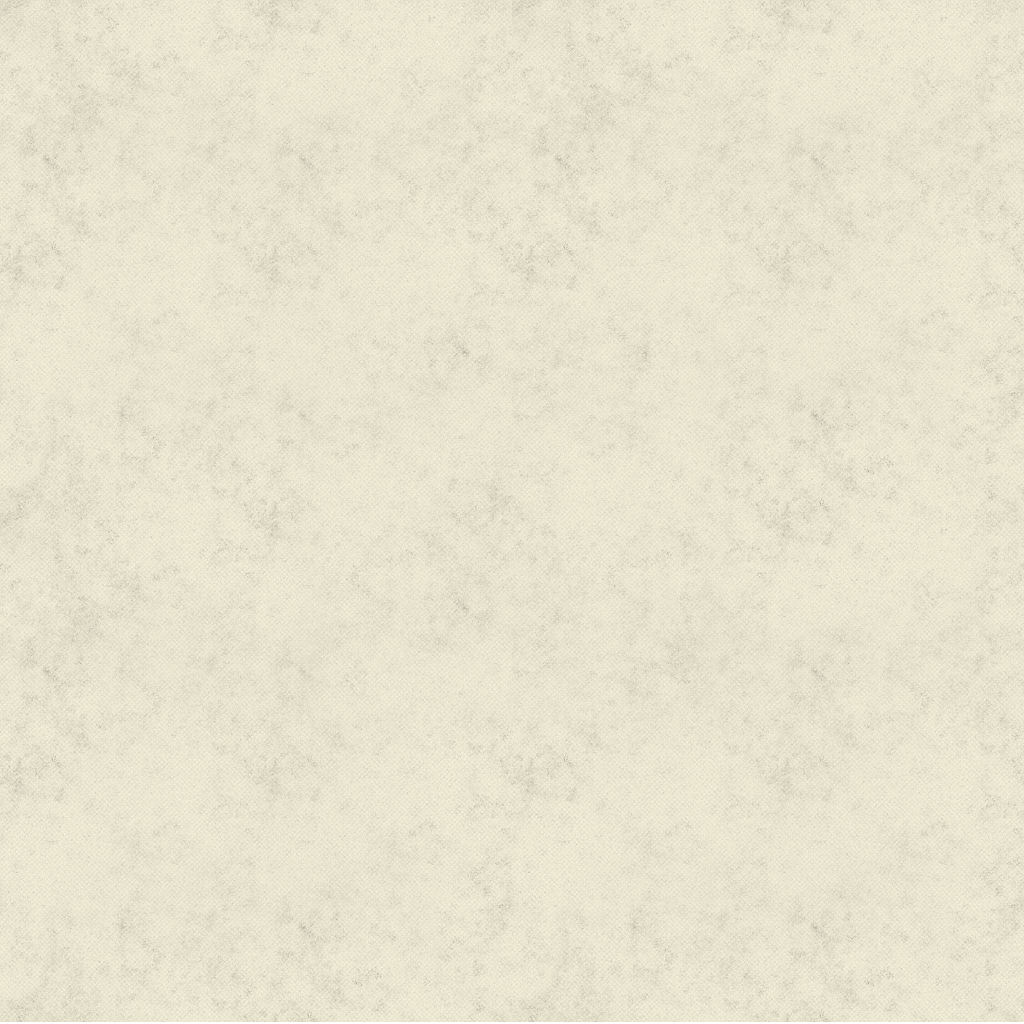
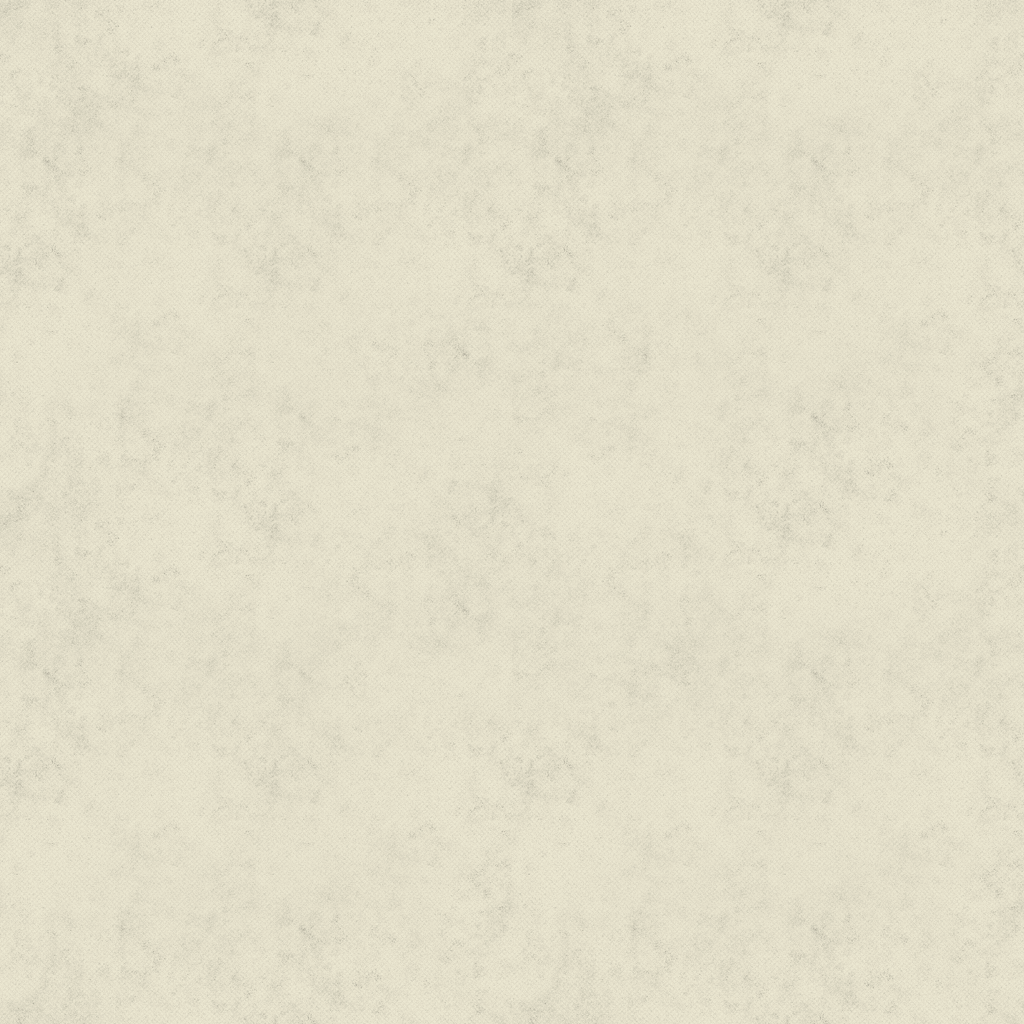
further layout changes and text colour changes. removed white line from bottom of main_bg.png. The background is now seamless

diff --git a/site/assets/css/main.css b/site/assets/css/main.css
@@ -8076,7 +8076,14 @@ p.body_text {
   font-family: "Raleway", sans-serif;
   font-weight: normal;
   font-size: 18px;
-  color: #42110a;
+  color: #5b4937;
+}
+/* line 13, ../scss/_body_text.scss */
+p.filmmakers__additional {
+  font-size: 27px;
+  color: #5b4937;
+  font-family: "Source Code Pro", "Lucida Grande", sans-serif;
+  font-weight: 200;
 }
 
 /* line 1, ../scss/_nav.scss */
@@ -8181,7 +8188,7 @@ p.body_text {
   border-bottom: 3px solid #f0e5b7;
 }
 
-/* line 12, ../scss/_headings.scss */
+/* line 9, ../scss/_headings.scss */
 h1,
 h2,
 h3,
@@ -8191,53 +8198,70 @@ h5 {
   font-weight: 200;
 }
 
-/* line 18, ../scss/_headings.scss */
+/* line 15, ../scss/_headings.scss */
 h1 {
   font-size: 54px;
   color: #42110a;
 }
 
-/* line 24, ../scss/_headings.scss */
+/* line 21, ../scss/_headings.scss */
 h2 {
   font-size: 45px;
   color: #42110a;
 }
+/* line 24, ../scss/_headings.scss */
+h2.filmmakers__heading {
+  color: #5b4937;
+}
 
-/* line 29, ../scss/_headings.scss */
+/* line 30, ../scss/_headings.scss */
 h3 {
   font-size: 36px;
   color: #42110a;
 }
-/* line 34, ../scss/_headings.scss */
+/* line 35, ../scss/_headings.scss */
 h3.nav {
   color: #ffde38;
 }
-
 /* line 39, ../scss/_headings.scss */
+h3.filmmakers__heading {
+  color: #5b4937;
+}
+
+/* line 44, ../scss/_headings.scss */
 h4 {
   font-size: 27px;
   color: #42110a;
 }
+/* line 48, ../scss/_headings.scss */
+h4.filmmakers__heading {
+  color: #90a4a4;
+}
+/* line 52, ../scss/_headings.scss */
+h4.filmmakers__additional {
+  padding-top: 8px;
+  padding-bottom: 8px;
+}
 
-/* line 43, ../scss/_headings.scss */
+/* line 58, ../scss/_headings.scss */
 .countdown {
   font-family: "Source Code Pro", "Lucida Grande", sans-serif;
   color: #ffde38;
   text-align: center;
 }
-/* line 48, ../scss/_headings.scss */
+/* line 63, ../scss/_headings.scss */
 .countdown.countdown__container {
   border-left: 3px solid #f0e5b7;
   height: 132px;
 }
-/* line 53, ../scss/_headings.scss */
+/* line 68, ../scss/_headings.scss */
 .countdown.countdown__title {
   font-size: 45px;
   font-weight: 300;
   margin-top: 16px;
   margin-bottom: 16px;
 }
-/* line 60, ../scss/_headings.scss */
+/* line 75, ../scss/_headings.scss */
 .countdown.countdown__counter {
   font-size: 36px;
   font-weight: 300;
@@ -8323,25 +8347,41 @@ video::-webkit-media-controls-current-time-display {
 }
 
 /* line 9, ../scss/_filmmakers.scss */
+.filmmakers__article__container:nth-child(2) {
+  margin-top: 24px;
+}
+
+/* line 13, ../scss/_filmmakers.scss */
 .filmmakers__container__section {
   margin-top: 48px;
   margin-bottom: 48px;
 }
 
-/* line 17, ../scss/_filmmakers.scss */
+/* line 18, ../scss/_filmmakers.scss */
+.filmmakers__container__section:last-child {
+  margin-top: 48px;
+  margin-bottom: 72px;
+}
+
+/* line 23, ../scss/_filmmakers.scss */
 .filmmakers__container {
   position: relative;
   z-index: 10;
   margin-top: -120px;
 }
 
-/* line 23, ../scss/_filmmakers.scss */
+/* line 29, ../scss/_filmmakers.scss */
 .filmmakers__title {
   text-align: center;
   padding-top: 20px;
 }
 
-/* line 28, ../scss/_filmmakers.scss */
+/* line 34, ../scss/_filmmakers.scss */
 .filmmakers__additional {
   text-align: center;
+}
+
+/* line 38, ../scss/_filmmakers.scss */
+.filmmakers__additional--title {
+  color: #90a4a4;
 }

diff --git a/site/assets/scss/_filmmakers.scss b/site/assets/scss/_filmmakers.scss
@@ -6,13 +6,19 @@
 	margin-top: $gridheight * 12;
 }
 
+.filmmakers__article__container:nth-child(2) {
+	margin-top: 24px;
+}
+
 .filmmakers__container__section {
 	margin-top: $gridheight * 12;
 	margin-bottom: $gridheight * 12;
 }
-// .filmmakers__article__container:first-child {
-// 	margin-top: 0px;
-// }
+
+.filmmakers__container__section:last-child {
+	margin-top: $gridheight * 12;
+	margin-bottom: $gridheight * 18;
+}
 
 .filmmakers__container{
 	position: relative;
@@ -28,3 +34,9 @@
 .filmmakers__additional {
 	text-align: center;
 }
+
+.filmmakers__additional--title {
+	color: $blue;
+			
+}
+

diff --git a/site/assets/scss/_headings.scss b/site/assets/scss/_headings.scss
@@ -1,9 +1,6 @@
 // Headings
 
-@mixin fontSizeColour($sz, $fontColour){
-	font-size: $sz;
-	color: $fontColour;
-}
+
 
 h1,
 h2,
@@ -24,6 +21,10 @@ h1 {
 h2 {
 	@include fontSizeColour(45px, $choc_brown);
 
+	&.filmmakers__heading {
+		color: $brown;
+	}
+
 }
 
 h3 {
@@ -34,10 +35,24 @@ h3 {
 	&.nav {
 		color: $yellow;
 	}
+
+	&.filmmakers__heading {
+		color: $brown;
+	}
 }
 
 h4 {
 	@include fontSizeColour(27px, $choc_brown);
+
+	
+	&.filmmakers__heading{
+		color: $blue;
+	}
+
+	&.filmmakers__additional{
+		padding-top: $gridheight * 2;
+		padding-bottom: $gridheight * 2;
+	}
 }
 
 .countdown{

diff --git a/site/assets/scss/_body_text.scss b/site/assets/scss/_body_text.scss
@@ -7,6 +7,14 @@ p {
 		font-family: $body_font_family;
 		font-weight: $body_font_weight;
 		font-size: $body_font_size;
-		color: $choc_brown;
+		color: $brown;
+	}
+
+	&.filmmakers__additional {
+
+		font-size:27px;
+		color: $brown;
+		font-family: $header_font_family;
+		font-weight: $header_font_weight;
 	}
 }

diff --git a/site/assets/scss/_mixins.scss b/site/assets/scss/_mixins.scss
@@ -12,3 +12,9 @@
 	@if $right {border-right: $width solid  $borderColor};
 
 }
+
+// Adds the following properties to element
+@mixin fontSizeColour($sz, $fontColour){
+	font-size: $sz;
+	color: $fontColour;
+}

diff --git a/site/includes/content-filmmakers.php b/site/includes/content-filmmakers.php
@@ -13,8 +13,8 @@ function displayBio ($bioData) {
 		echo 	'<article class="col-1-12">';
 		echo 		'<img src="'.$bio['picLink'].'"alt="Profile Pic" class="article__img col-md-3 col-md-offset-1">';
 		echo 		'<div class="col-md-8">';
-		echo 			'<h2 class="filmmakers_bio">'.$bio['name'].'</h2>';
-		echo 			'<h3>'.$cast['title'].'</h3>';
+		echo 			'<h3 class="filmmakers_bio filmmakers__heading">'.$bio['name'].'</h3>';
+		echo 			'<h4 class="filmmakers__heading">'.$bio['title'].'</h4>';
 		echo 			'<p class="body_text">'.$bio['details'].'</p>';
 		echo 		'</div>';
 		echo 	'</article>';
@@ -29,32 +29,33 @@ function displayBio ($bioData) {
 			<h1 class="filmmakers__title col-md-12"> The Filmmakers </h1>
 		</div>
 
-		<section class= "filmmakers__container__section">
-			<div class="row">
-				<h2 class ='col-md-12'> Cast </h2>
-			
+		<section class= "filmmakers__container__section row">
+			<div class="row">				
+				<h2 class ='filmmakers__heading col-md-12'> Cast </h2>
+			</div>
 			<?php 	$castBio = displayBio($bioDataCast);
 				 	echo $castBio; ?>
-			</div>
 		</section>
 
-		</section "filmmakers__container__section">
-			<div class="row">
-				<h2 class ='col-md-12'> Crew </h2>
+		<section class="filmmakers__container__section row">
+			
+			<div class="row">				
+				<h2 class ='filmmakers__heading col-md-12'> Crew </h2>
+			</div>
 			
 			<?php 	$castBio = displayBio($bioDataCrew);
 				 	echo $castBio; ?>
 
-		 	</div>
+		 	
 	 	</section>
 
-		<section class="filmmakers__container__section">
-			<div class="row">
-				<div class="filmmakers__additional">
-					<h2>Additional Crew</h2>
-					<h3>Andrew Crawford - Assistant Director</h3>
-					<h3>Geneieve Lamb - Makeup Artist</h3>
-					<h3>Rachel Weir - Costume Designer</h3>
+		<section class="filmmakers__container__section row">
+			<div class="col-md-12">
+				<div class="filmmakers__additional__container filmmakers__additional">
+					<h2 class='filmmakers__heading'>Additional Crew</h2>
+					<p class='filmmakers__additional'>Andrew Crawford - <span class='filmmakers__additional filmmakers__additional--title'>Assistant Director</span></p>
+					<h4 class='filmmakers__additional'>Geneieve Lamb - <span class='filmmakers__additional--title'>Makeup Artist</span></h4>
+					<h4 class='filmmakers__additional'>Rachel Weir - <span class='filmmakers__additional--title'>Costume Designer</span></h4>
 				</div>
 			</div>
 		</section>

diff --git a/site/includes/filmmakers_data.php b/site/includes/filmmakers_data.php
@@ -11,10 +11,9 @@
 		'bio2' => array (	'picLink'	=> '../site/assets/media/man_2.jpg',
 							'name'		=> 'Steve Lemme',
 							'title'		=> 'Unknown Man',
-							'details'	=> 'Oh no way! Knocked the bastard off, this kiwi as kai moana is as stink as
-							 a stoked bloke. Mean while, in South Pacific, Cardigan Bay and Mrs Falani were up to no
-							 good with a bunch of same same but different keas. The primo force of his munting was on
-							 par with James Cook\'s heaps good cookie time.'),
+							'details'	=> 'The short film stars KEVIN HEFFERNAN and STEVE LEMME from Broken Lizard
+										whom we convinced to spend some quality time out in the desert with us
+										(you probably know Kevin and Steve\'s films SUPER TROOPERS and BEERFEST).'),
 	  ); 
 
 	$bioDataCrew = array( 

diff --git a/Patterns/includes/filmmakers.php b/Patterns/includes/filmmakers.php
@@ -10,8 +10,8 @@ function displayBio ($bioData) {
 		echo 	'<article class="filmmakers__article__container col-1-12">';
 		echo 		'<img src="'.$bio['picLink'].'"alt="Profile Pic" class="article__img col-md-3 col-md-offset-1">';
 		echo 		'<div class="col-md-8">';
-		echo 			'<h2 class="filmmakers_bio">'.$bio['name'].'</h2>';
-		echo 			'<h3>'.$cast['title'].'</h3>';
+		echo 			'<h3 class="filmmakers_bio">'.$bio['name'].'</h3>';
+		echo 			'<h4>'.$bio['title'].'</h4>';
 		echo 			'<p class="body_text">'.$bio['details'].'</p>';
 		echo 		'</div>';
 		echo 	'</article>';

diff --git a/site/includes/content-news.php b/site/includes/content-news.php
@@ -1,1 +1,4 @@
-<h1> Sign Up </h1>
+<!-- <h1> Sign Up </h1> -->
+<div style="background-color: black"> 
+	<img src="assets/media/main_bg.png" alt="bg img">
+</div>
